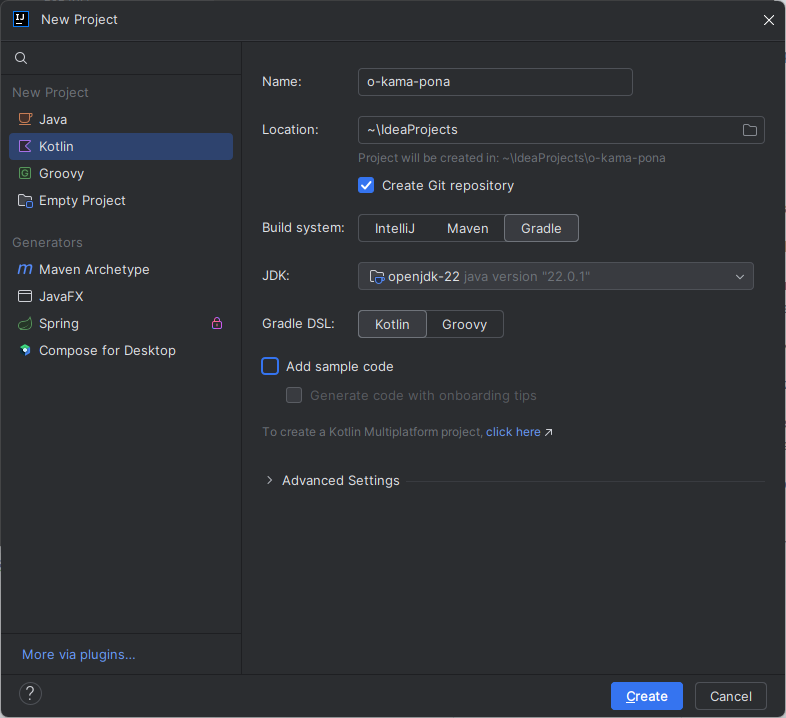
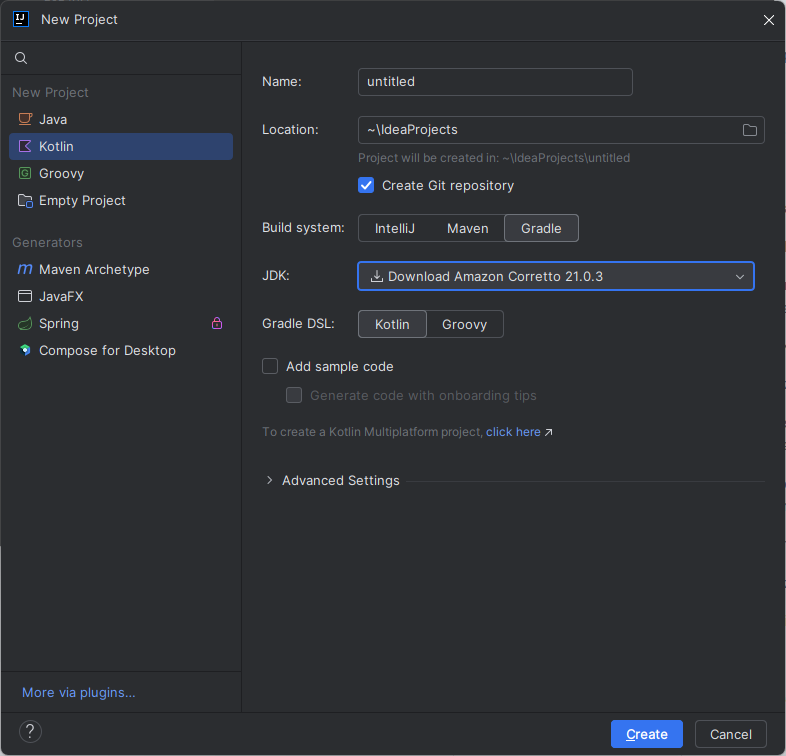
Fix JDK instructions

diff --git a/src/tok/kt/o-open-pali.md b/src/tok/kt/o-open-pali.md
@@ -42,12 +42,14 @@ taso sina wile kepeken ala. kepeken sitelen pi nimi ala (sama `!`, `#`, `?`, ...
 sitelen nimi (sama `k`, `o`, ...) la sina alasa ala e pakala. :) taso sina **ken** kepeken sitelen `-` a!
 
 lon leko "o pali e lipu Ki (*toki Inli: Git*)" la sina *ken* luka, taso sina *ken* luka ala. taso lon leko "ilo pali" la
-sina wile a luka e ilo Kete (*toki Inli: Gradle*)! ilo JDK li lon ala lon tenpo ni. ni la, sina o luka e leko la sina o
-luka e ni:
+sina wile a luka e ilo Kete (*toki Inli: Gradle*)! ilo JDK li lon ala lon tenpo ni. ni la, sina o luka e leko la, sina o
+luka e leko "o kama jo e ilo JDK" la sina o pali e ni:
 
 ![luka "o kama jo e ilo JDK"](/img/kt/jdk.png)
 
-nanpa li ken sama ala, taso ilo lipu o kama jo. sina pali e ni ale la sitelen o lukin sama ni:
+nanpa lili li ken sama ala, taso nanpa suli o sama (o lili tan) nanpa 21!
+
+sina pali e ni ale la sitelen o lukin sama ni:
 
 ![open lipu pona](/img/kt/project-settings.png)
 
